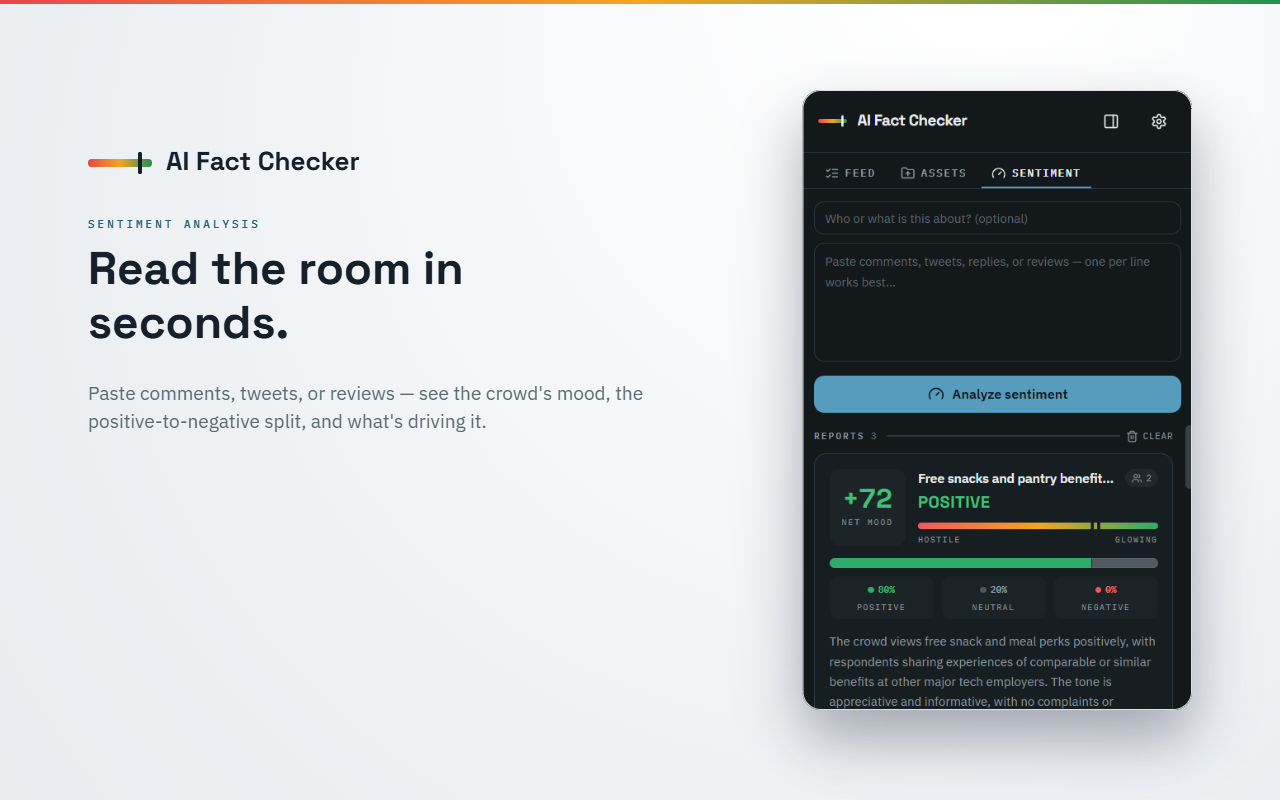
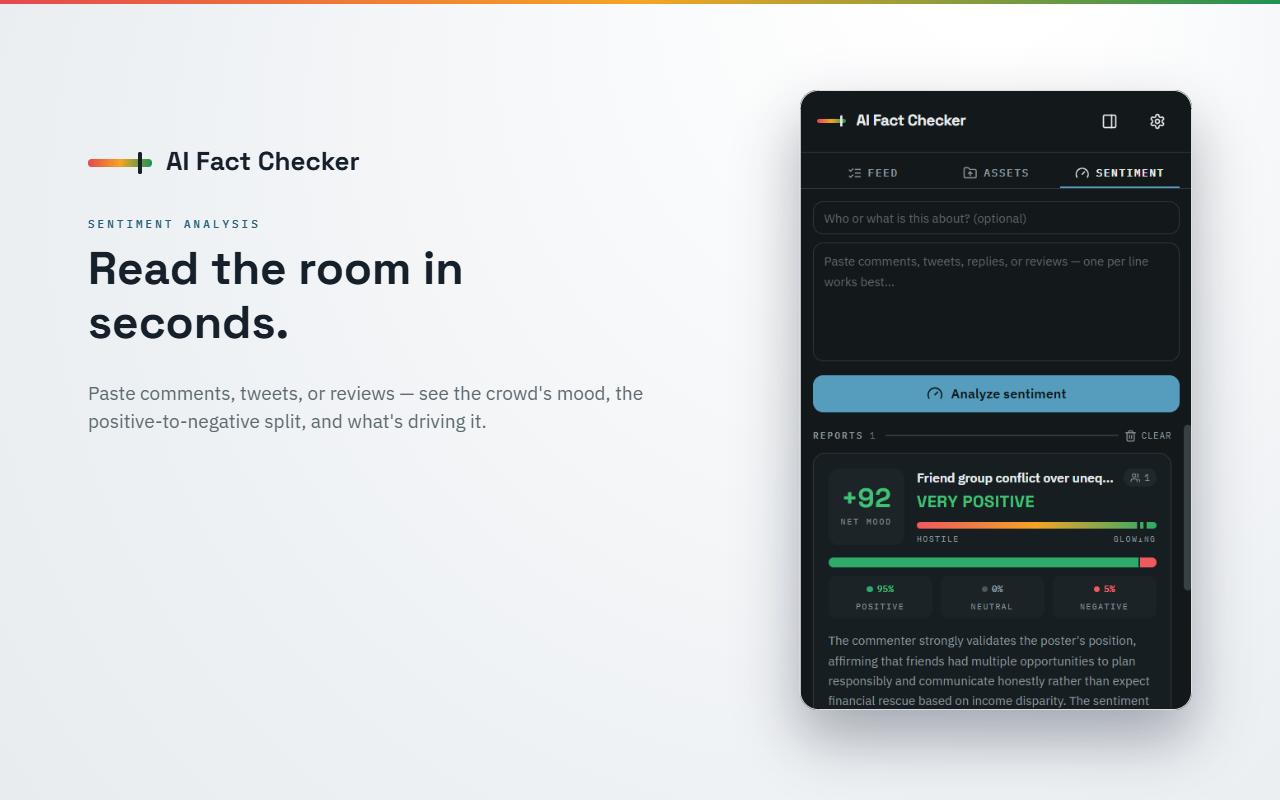
chore: update homepage screenshots and unify navbar CTA to Add to Chrome

diff --git a/index.html b/index.html
@@ -230,7 +230,7 @@
           <a href="#how">How it works</a>
           <a href="store/PRIVACY.html">Privacy</a>
           <a href="https://github.com/Mrred883/ai-fact-checker" target="_blank" rel="noreferrer">GitHub</a>
-          <a id="nav-install" class="btn btn-primary" style="padding:8px 14px" href="#install">Get it</a>
+          <a id="nav-install" class="btn btn-primary" style="padding:8px 14px" href="#install">Add to Chrome</a>
         </div>
       </div>
     </nav>